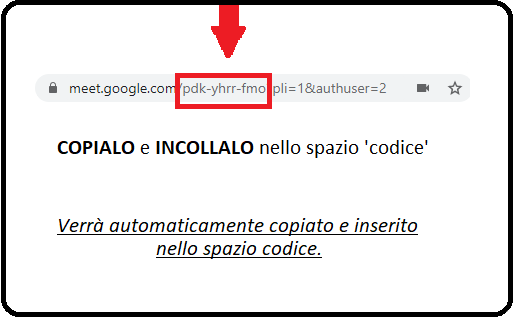
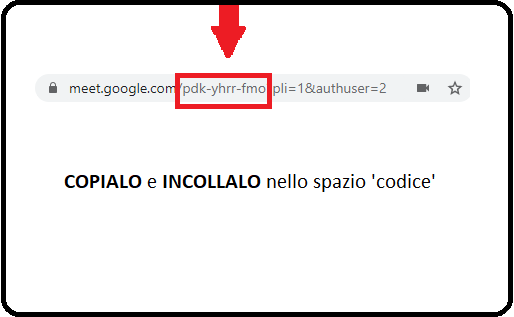
-3kb

Changed region(s): [[0.0934, 0.6814, 0.8093, 0.8233], [0.1245, 0.5394, 0.8716, 0.5962], [0.0934, 0.4259, 0.8405, 0.511]]

diff --git a/rubrica/options.html b/rubrica/options.html
@@ -16,6 +16,7 @@
   <link href="https://demos.creative-tim.com/blk-design-system-pro/assets/demo/demo.css" rel="stylesheet">
 </head>
 <body class="index-page">
+  <!-- EASTER EGG LOL <p id=easterEggXddX></p> -->
   <!-- Navbar -->
   <nav class="navbar navbar-expand-lg fixed-top" color-on-scroll="300" style="background:#389191">
     <div class="container">
@@ -48,7 +49,7 @@
     </div>
   </nav>
   <!-- End Navbar -->
-  <div class="wrapper">
+  <div class="wrapper" id="richieste">
     <div class="main" style="padding-left:10px; padding-right:10px;">
       <br><br><br>
               <div id="collapse">
@@ -76,7 +77,7 @@
                                   <th><label for="Pw1">Password</label>
                                       <input id="pwFisica" type="text" value="" placeholder="Password" class="form-control"></th>
                                   <th><div class=container></div></th>
-                                  <th><table><tbody><tr><p for="saveButton2" style="text-align: center;font-weight: bold;font-size: smaller;color:orange;">Non salvato!</p></tr><tr><button class="btn btn-success btn-round" id="saveButton1" type="button">Salva</button></tr></tbody></table></th>
+                                  <th><table><tbody><tr><div style="margin-bottom:15px;"></div></tr><tr><button class="btn btn-success btn-round" id="saveButton1" type="button">Salva</button></tr></tbody></table></th>
                                   <th><div class="container"></div></th>
                                   <th><div id="alertMeetFisica" class="btn btn-danger alert alert-danger" role="alert" style="margin-bottom: 0px; display:none;" data-toggle="modal" data-target="#myModal">Se scegli Meet devi cliccare qui!</div></th>
                               </tr></table>
@@ -214,7 +215,7 @@
                  <div class="info info-info">
                    <img src="images/2.png">
                    <h4 class="info-title" style="color:red;font-weight:bold;">2.</h4>
-                   <p class="description">Copia il codice nell'url e incollalo nello spazio codice. <br>(Dovrebbe essere un processo automatico)</p>
+                   <p class="description">Copia il codice nell'url e incollalo nello spazio codice.</p>
                  </div>
                </div>
              </div>

diff --git a/rubrica/options.js b/rubrica/options.js
@@ -1,18 +1,43 @@
+//FISICA
 document.getElementById("piattaformaFisica").addEventListener("change", getPlatFisica)
   function getPlatFisica() {
     var selectedPlatformFisica = document.getElementById("piattaformaFisica").value;
-    console.log(selectedPlatformFisica)
     if(selectedPlatformFisica === "Meet"){
     	document.getElementById("alertMeetFisica").setAttribute('style', 'display: block');
     }if(selectedPlatformFisica != "Meet"){
         document.getElementById("alertMeetFisica").setAttribute('style', 'display: none');
     };
   }
+//GET ID OF MEETING
+document.getElementById("saveButton1").addEventListener("click", save1)
+  function save1(){
+    var platformFisica = document.getElementById("piattaformaFisica").value;
+    var meetIdFisica = document.getElementById("codiceFisica").value;
+    var pwFisica = document.getElementById("pwFisica").value;
+    var fisica = [platformFisica, meetIdFisica, pwFisica];
+    chrome.storage.local.set({fisica: fisica}, function() {
+      console.log('Fisica salvato. Piattaforma:' + fisica[0] + ' ID:' + fisica[1] + ' Password:' + fisica[2])
+      document.getElementById("saveButton1").innerText = "Salvato!";
+    })
+  }
 
+//ALL SAVED DATES ARE DISPLAYED
+document.getElementById("richieste").addEventListener("click", save1)
+//function displayed() {
+chrome.storage.sync.get(['fisica'], function(result) {;
+  console.log(result.fisica [0]);
+});
+//  document.getElementById("piattaformaFisica").setAttribute('value', 'color: green');
+//}
 
-
-
-
+/* EASTER EGG XDXD
+var easterText = "";
+var easterI;
+for (easterI = 0; easterI < 420; easterI++) {
+  easterText += "Penis <br>";
+}
+document.getElementById("easterEggXddX").innerHTML = easterText;
+*/
 
 /*document.getElementById("zoomid").addEventListener("click", submit);
     function submit(){
